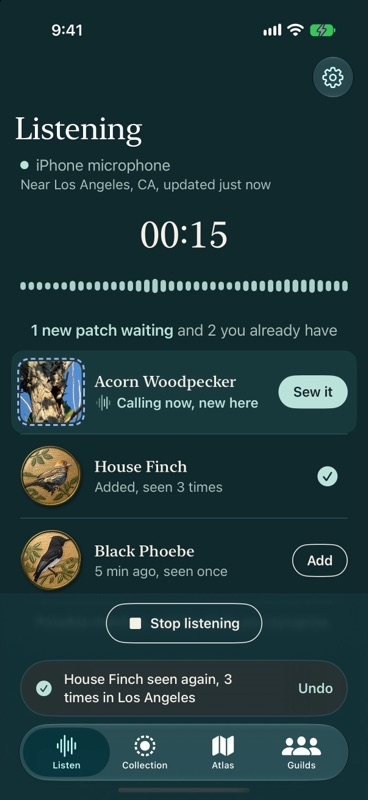
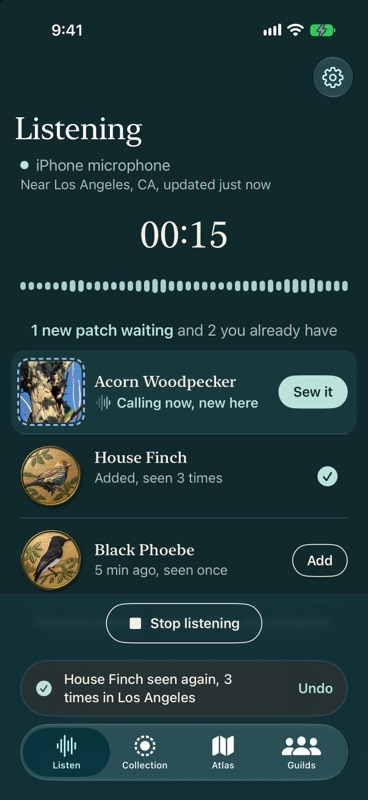
Hold the list: a row's room sits round its words, and the toast's shots (#150)

diff --git a/BirdJournal/BirdJournal/Listen/CandidateRow.swift b/BirdJournal/BirdJournal/Listen/CandidateRow.swift
@@ -39,11 +39,26 @@ struct CandidateRow: View {
             Button(action: review) {
                 AdaptiveRow(stacked: stacked) {
                     picture(look: look, patch: patch)
-                    VStack(alignment: .leading, spacing: 3) {
-                        Text(name)
-                            .font(JournalFont.rowTitle)
-                            .foregroundStyle(Color.ink)
-                        statusLine(look: look, heard: heard)
+                    // Room for what the row says when its bird calls, so that a row doesn't change height, and move the ones
+                    // below it, when a bird starts calling or stops. The list holds its order around a touch; this holds its
+                    // rows' places. The words sit in the middle of that room, in line with the picture.
+                    ZStack(alignment: .leading) {
+                        VStack(alignment: .leading, spacing: 3) {
+                            Text(name)
+                                .font(JournalFont.rowTitle)
+                            HStack(spacing: 5) {
+                                Image(systemName: "waveform")
+                                Text("Calling now, \(look.note)")
+                                    .font(JournalFont.supporting.weight(.semibold))
+                            }
+                        }
+                        .hidden()
+                        VStack(alignment: .leading, spacing: 3) {
+                            Text(name)
+                                .font(JournalFont.rowTitle)
+                                .foregroundStyle(Color.ink)
+                            statusLine(look: look, heard: heard)
+                        }
                     }
                     .multilineTextAlignment(.leading)
                     .frame(maxWidth: .infinity, alignment: .leading)
@@ -102,22 +117,7 @@ struct CandidateRow: View {
     /// "Calling now, new here", "3 min ago, seen 7 times" or "Added, seen 8 times": what's new and what's calling in the tint.
     private func statusLine(look: CandidateLook, heard: String) -> some View {
         let isNew = look == .newHere
-        return ZStack(alignment: .topLeading) {
-            // Room for the line this row says when its bird calls, so that a row doesn't change height, and move the ones below it,
-            // when a bird starts calling or stops. The list holds its order around a touch; this holds its rows' places.
-            HStack(spacing: 5) {
-                Image(systemName: "waveform")
-                Text("Calling now, \(look.note)")
-                    .font(JournalFont.supporting.weight(.semibold))
-            }
-            .hidden()
-            .accessibilityHidden(true)
-            statusWords(look: look, heard: heard, isNew: isNew)
-        }
-    }
-
-    private func statusWords(look: CandidateLook, heard: String, isNew: Bool) -> some View {
-        HStack(spacing: 5) {
+        return HStack(spacing: 5) {
             if isCalling {
                 Image(systemName: "waveform")
                     .symbolEffect(.variableColor.iterative.reversing, isActive: !reduceMotion)
